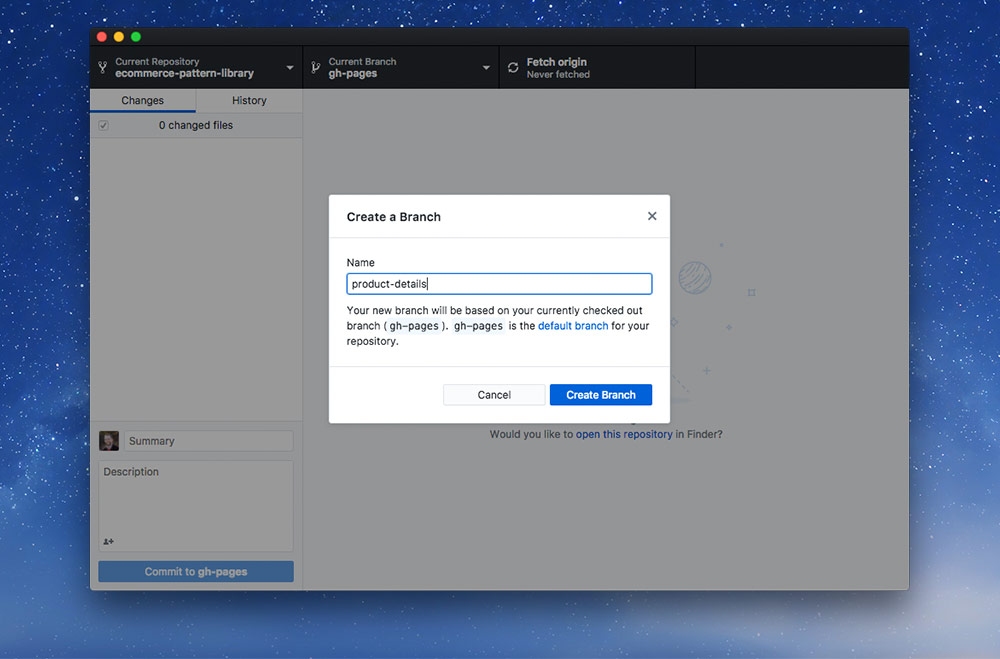
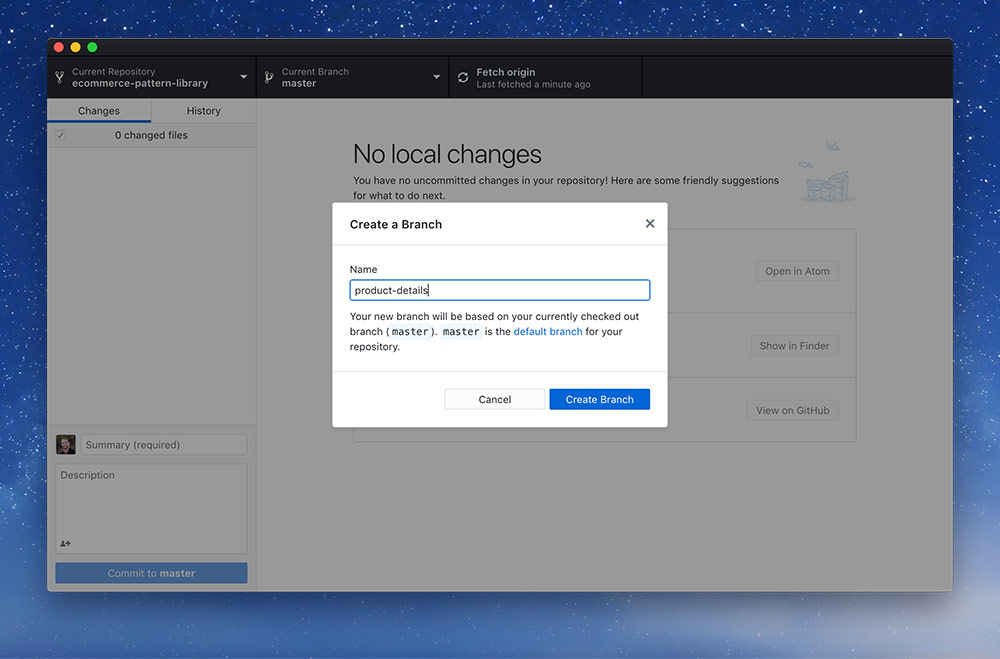
Update the “Repo setup & branching” lesson for the new term

diff --git a/repo-setup-and-branching.md b/repo-setup-and-branching.md
@@ -25,12 +25,12 @@ goal:
       desc: "The person who will be developing/writing the code/creating the new product details page."
 
 steps:
-  - title: "Protect your gh-pages branch"
+  - title: "Protect your master branch"
     person:
       icon: "person-1"
       label: "Owner"
     before: |
-      The first step to do on your own eCommerce website is to protect the `gh-pages` branch. This will prevent your teammate from overwriting any code that you’ve written without your permission.
+      The first step to do on your own eCommerce website is to protect the `master` branch. This will prevent your teammate from overwriting any code that you’ve written without your permission.
 
       We’re also going to enable code review, that way you can see, test–and approve—their code before you put it back into your version.
 
@@ -38,16 +38,16 @@ steps:
 
       ![](protect-start.jpg)
 
-      Go to the “Settings” tab then click on the “Branches” navigation item. Lower down the screen is a “Protected branches” setting: choose `gh-pages`
+      Go to the “Settings” tab then click on the “Branches” navigation item. Lower down the screen is a “Branch protection rules” setting: press “Add rule”.
 
       ![](protect-settings.jpg)
 
       On the next screen select the following options and save:
 
-      1. *“Protect this branch”*
-        <br>This will prevent you from committing and pushing to the `gh-pages` branch—you’ll have to create a different branch.
+      1. *“Branch name pattern”*
+        <br>Type in `master` into the field because that’s the branch we want to protect.
       2. *“Require pull request reviews before merging”*
-        <br>This will require your teammate to get you to approve their code changes before they can be implemented into the `gh-pages` branch.
+        <br>This will require your teammate to get you to approve their code changes before they can be implemented into the `master` branch.
       3. *“Dismiss stale pull request approvals when new commits are pushed”*
         <br>If you have approved the code changes, but then your teammate creates a new commit, the approval will be voided.
 
@@ -57,9 +57,9 @@ steps:
         text: |
           All repositories should have a primary branch that is considered to be a pristine copy of the code. We haven been following best practice by committing directly onto our primary branch.
 
-      - label: "The gh-pages branch"
+      - label: "The master branch"
         text: |
-          Most often the default branch for a repository that you’re working on (outside of this course) is called `master`. In our case our default branch is named `gh-pages`. I’ve done it this way so that every single repository that you fork is already a hosted website on GitHub; the `gh-pages` branch means: my repository should be a hosted website.
+          Most often the default branch for a repository that you’re working on (outside of this course) is called `master`. In our case our default branch is named `master`. I’ve done it this way so that every single repository that you fork is already a hosted website on GitHub; the `master` branch means: my repository should be a hosted website.
 
   - title: "Invite your collaborator"
     person:
@@ -79,7 +79,7 @@ steps:
       icon: "person-2"
       label: "Dev"
     before: |
-      It’s now your turn to close the repository that you were just invited to. After accepting your invitation you will have access to the repository.
+      It’s now your turn—**the developer**—to close the repository that you were just invited to. After accepting your invitation you will have access to the repository.
 
       Clone like normal—except with one small change: **rename the folder so you know which is which!**
 
@@ -92,7 +92,7 @@ steps:
       icon: "person-2"
       label: "Dev"
     before: |
-      You, as the collaborator, are not allowed to write commits or code directly to the `gh-pages` branch. So we need to make a new branch to work from.
+      You, as the collaborator, are not allowed to write commits or code directly to the `master` branch. So we need to make a new branch to work from.
 
       ![](branch-new.jpg)
 
